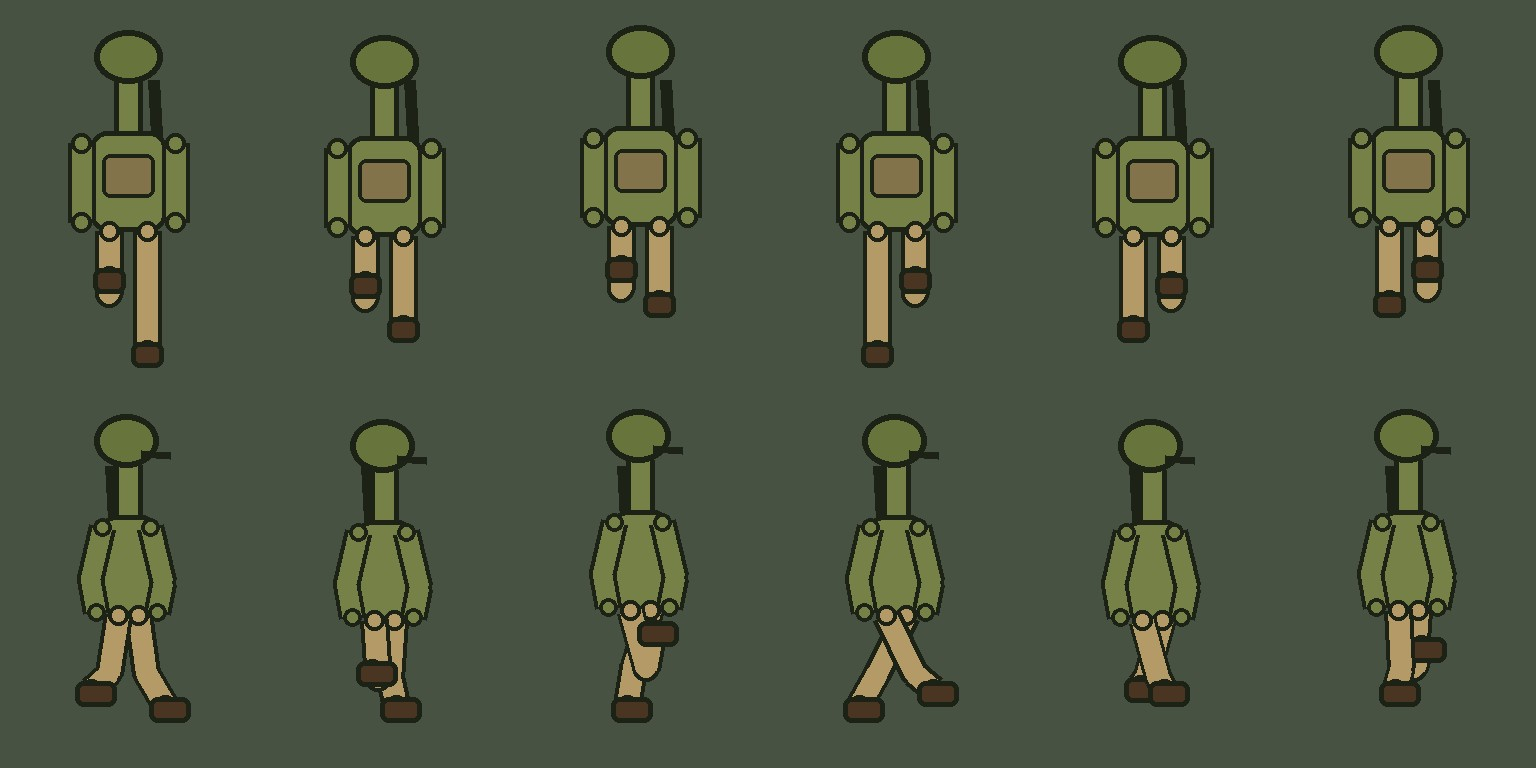
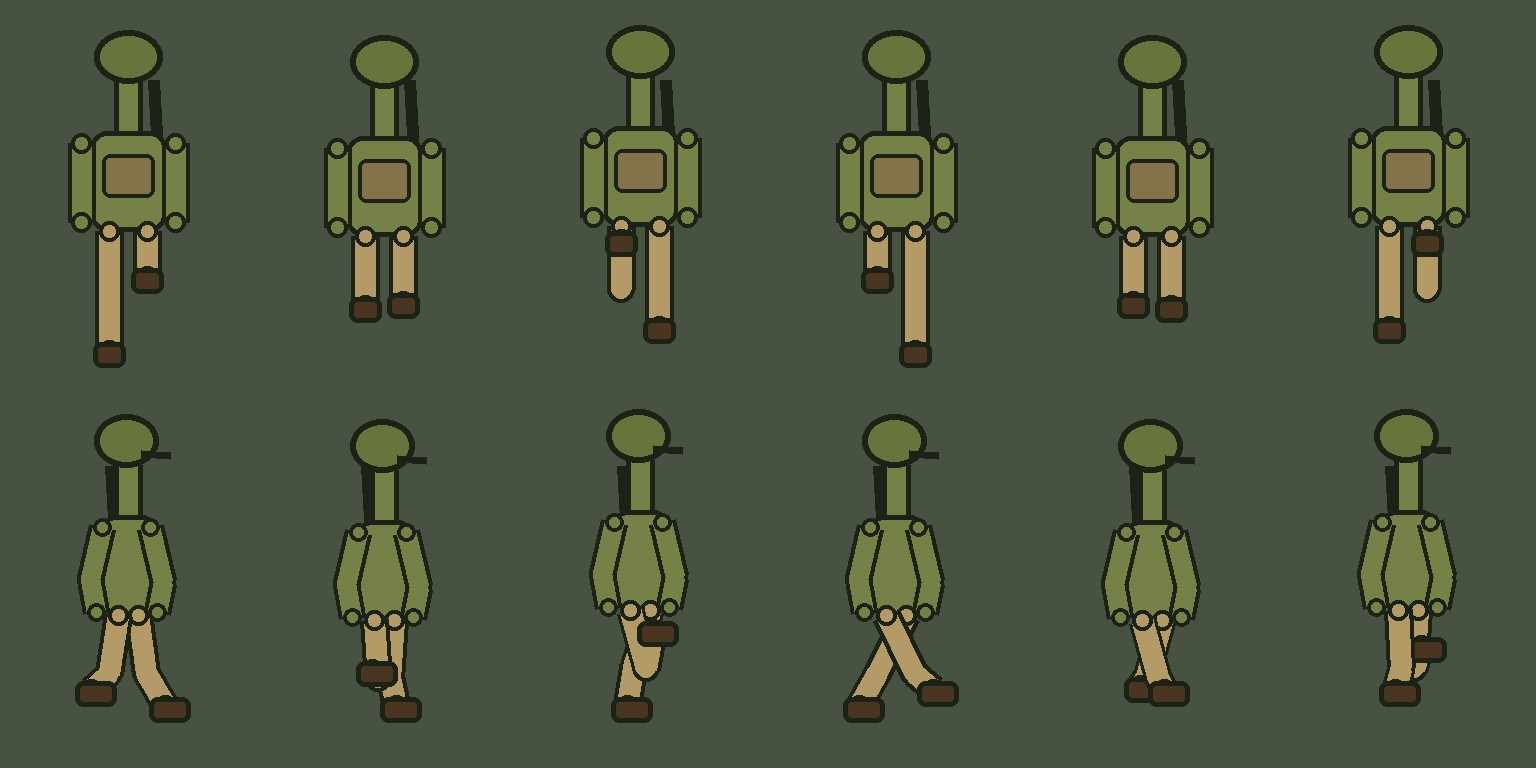
Correct northward planted foot motion and validate signed gait geometry

diff --git a/tools/check-direction-pose-guides.py b/tools/check-direction-pose-guides.py
@@ -1,0 +1,22 @@
+"""Check planted feet against world travel, including travel direction.
+
+This checks guide geometry only. Painted pixels and a game clip still need
+validation; JSON cannot certify that an artist kept the same leading leg.
+"""
+import json
+from pathlib import Path
+ROOT = Path(__file__).resolve().parents[1]
+for direction, axis, body_step in [('up', 'y', -25), ('right', 'x', 25)]:
+    data = json.loads((ROOT / f'art/rig/soldier_walk_{direction}_pose_guide.json').read_text())
+    tracks = data['footTrack']
+    assert len(tracks) == 6 and data['cell'] == [256, 384]
+    assert data['pivot'] == [128, 330]
+    for start, side in [(0, 'right'), (3, 'left')]:
+        opposite = 'left' if side == 'right' else 'right'
+        for frame in range(start, start + 3):
+            assert tracks[frame][side]['planted']
+            assert not tracks[frame][opposite]['planted']
+        for frame in range(start, start + 2):
+            local_step = tracks[frame + 1][side][axis] - tracks[frame][side][axis]
+            assert abs(body_step + local_step) < 0.01, (direction, frame, body_step, local_step)
+    print(f'{direction}: opposite stance legs; world-planted foot displacement zero')

diff --git a/tools/make-direction-pose-guides.py b/tools/make-direction-pose-guides.py
@@ -40,8 +40,10 @@ def frame(direction, phase):
         # Continuous stance foot shifts 25 px per frame in screen depth;
         # the other foot swings up ~60 px at the passing pose.
         stance_right=phase<3
-        track=37-phase_in_half*STANCE_STEP
-        swing=-37+phase_in_half*STANCE_STEP
+        # Walking north moves the body UP screen: a world-planted foot must
+        # move DOWN inside the cell to cancel that displacement.
+        track=-37+phase_in_half*STANCE_STEP
+        swing=37-phase_in_half*STANCE_STEP
         for right in (True,False):
             planted=right==stance_right
             x=cx+(19 if right else -19)

diff --git a/art/rig/UP_RIGHT_POSE_GUIDES.md b/art/rig/UP_RIGHT_POSE_GUIDES.md
@@ -1,6 +1,8 @@
 # Up and right walk pose guides — awaiting paintover
 
-`soldier_walk_up_pose_guide.png` and `soldier_walk_right_pose_guide.png` are **construction guides, not game sprites**. Each has six transparent 256 × 384 cells, pivot (128, 330). Right contact/down/passing are frames 1–3; left contact/down/passing are frames 4–6. Planting swaps on frame 4. The planted foot shifts exactly 25 source pixels per frame during each three-frame stance: for up, screen y 367 → 342 → 317; for right, screen x 165 → 140 → 115. The other foot lifts in the passing phase. JSON companions record both feet's landmarks. `tools/make-direction-pose-guides.py` regenerates all files without a browser.
+`soldier_walk_up_pose_guide.png` and `soldier_walk_right_pose_guide.png` are **construction guides, not game sprites**. Each has six transparent 256 × 384 cells, pivot (128, 330). Right contact/down/passing are frames 1–3; left contact/down/passing are frames 4–6. Planting swaps on frame 4. The planted foot shifts exactly 25 source pixels per frame during each three-frame stance: for up, screen y 293 → 318 → 343; for right, screen x 165 → 140 → 115. The other foot lifts in the passing phase. JSON companions record both feet's landmarks. `tools/make-direction-pose-guides.py` regenerates all files without a browser.
+
+**1 October correction:** the first up guide incorrectly reused the down-walk foot direction. Northward movement decreases world y, so planted-foot local y must increase, cancelling body travel. The revised guide and JSON use +25 source px/frame for up, -25 source px/frame for right. Check world-body displacement plus local-foot displacement equals zero within each stance; a magnitude-only foot test would miss this sign error. Also trace anatomical leg identity: frame 4 must bring the other leg forward. Do not accept a sheet merely because the boots have moved.
 
 Paint the **same** soldier as `art/rig/soldier_walk_down_painted_v3.png` over these guide poses. Replace the block figure completely with the approved olive helmet/kit/face, dark outline, warm upper-left light, and genuine transparency. Do not introduce a backpack, halo or ground shadow. Align the planted boot to the guide's recorded coordinates, the helmet near row 30 and the ground pivot to (128,330). Keep the slung rifle on the same shoulder through turns. Produce two-frame idle up/right from the same master, both boots grounded, with accent masks for all four sheets. No runtime registration until the measured gait and 30-second direction/idle clip pass.
 
